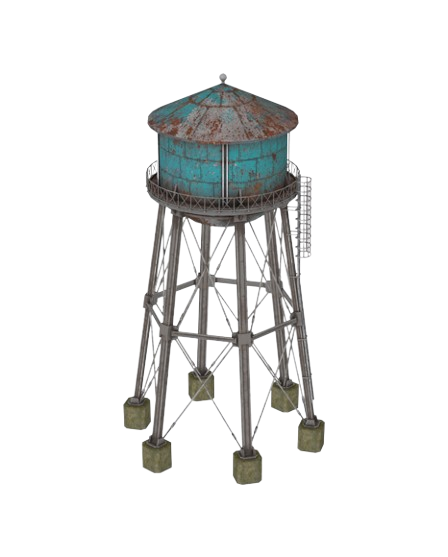
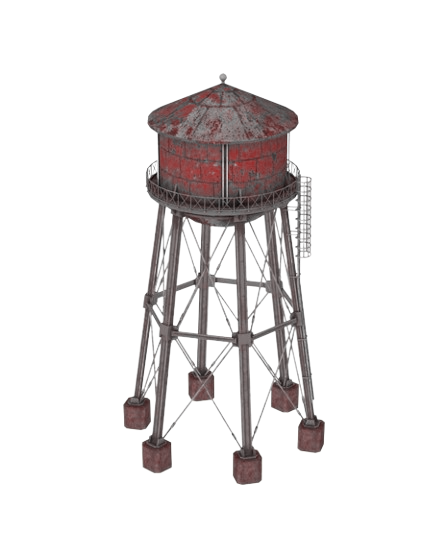
towers disappear after being destroyed

diff --git a/js/render/Renderer.js b/js/render/Renderer.js
@@ -28,7 +28,13 @@ export class Renderer {
   }
 
   syncTower(tower) {
+    if (tower.isDestroyed || tower.isDead) {
+      this.removeTower(tower.instanceId);
+      return;
+    }
+
     let el = this.towerElements.get(tower.instanceId);
+
     if (!el) {
       el = document.createElement("div");
       el.className = `game-tower team-${tower.team}`;
@@ -55,10 +61,34 @@ export class Renderer {
     }
   }
 
+  removeTower(instanceId) {
+    const el = this.towerElements.get(instanceId);
+
+    if (!el) return;
+
+    el.remove();
+    this.towerElements.delete(instanceId);
+  }
+
   cleanupDeadUnits(gameState) {
     const aliveIds = new Set(gameState.units.map((u) => u.instanceId));
     for (const [id] of this.elements) {
       if (!aliveIds.has(id)) this.removeUnit(id);
+    }
+  }
+
+  cleanupDestroyedTowers(gameState) {
+    const activeTowerIds = new Set(
+      gameState.towers
+        .filter((tower) => !tower.isDestroyed && !tower.isDead)
+        .map((tower) => tower.instanceId)
+    );
+
+    for (const [instanceId, element] of this.towerElements) {
+      if (!activeTowerIds.has(instanceId)) {
+        element.remove();
+        this.towerElements.delete(instanceId);
+      }
     }
   }
 
@@ -78,5 +108,6 @@ export class Renderer {
       if (!unit.isDead) this.syncUnit(unit);
     }
     this.cleanupDeadUnits(gameState);
+    this.cleanupDestroyedTowers(gameState);
   }
 }

diff --git a/js/config/unitDefinitions.js b/js/config/unitDefinitions.js
@@ -94,6 +94,31 @@ export const UnitDefinitions = {
     }
   },
 
+  tower_mega: {
+    category: "tower",
+    id: "tower_mega",
+    name: "Gratte-ciel",
+    description: "La tour idéale pour le business.",
+    sprite: "assets/bases/tour-coalshot.png",
+    rarity: 1,
+    hp: 1200,
+    damage: 40,
+    attackSpeed: 1.0,
+    attackRange: 160,
+    hitboxRadius: 40,
+    targetType: "ground",
+    canMove: false,
+    canAttack: true,
+    attackAnimation: "coalShot",
+    aoeRadius: 80,
+    aoeCenter: "target",
+    sounds: {
+      spawn: null,
+      attack: "assets/sounds/units/tombereau-attack.mp3",
+      death: "assets/sounds/ui/tower-destroyed.mp3"
+    }
+  },
+
   chauffage: {
     category: "unit",
     id: "chauffage",

diff --git a/style.css b/style.css
@@ -428,11 +428,6 @@ button {
   filter: drop-shadow(0 8px 10px rgba(0,0,0,0.4)) hue-rotate(180deg);
 }
 
-.game-tower.destroyed img {
-  opacity: 0.3;
-  filter: grayscale(1);
-}
-
 .game-tower .hp-bar {
   position: absolute;
   top: -14px;
